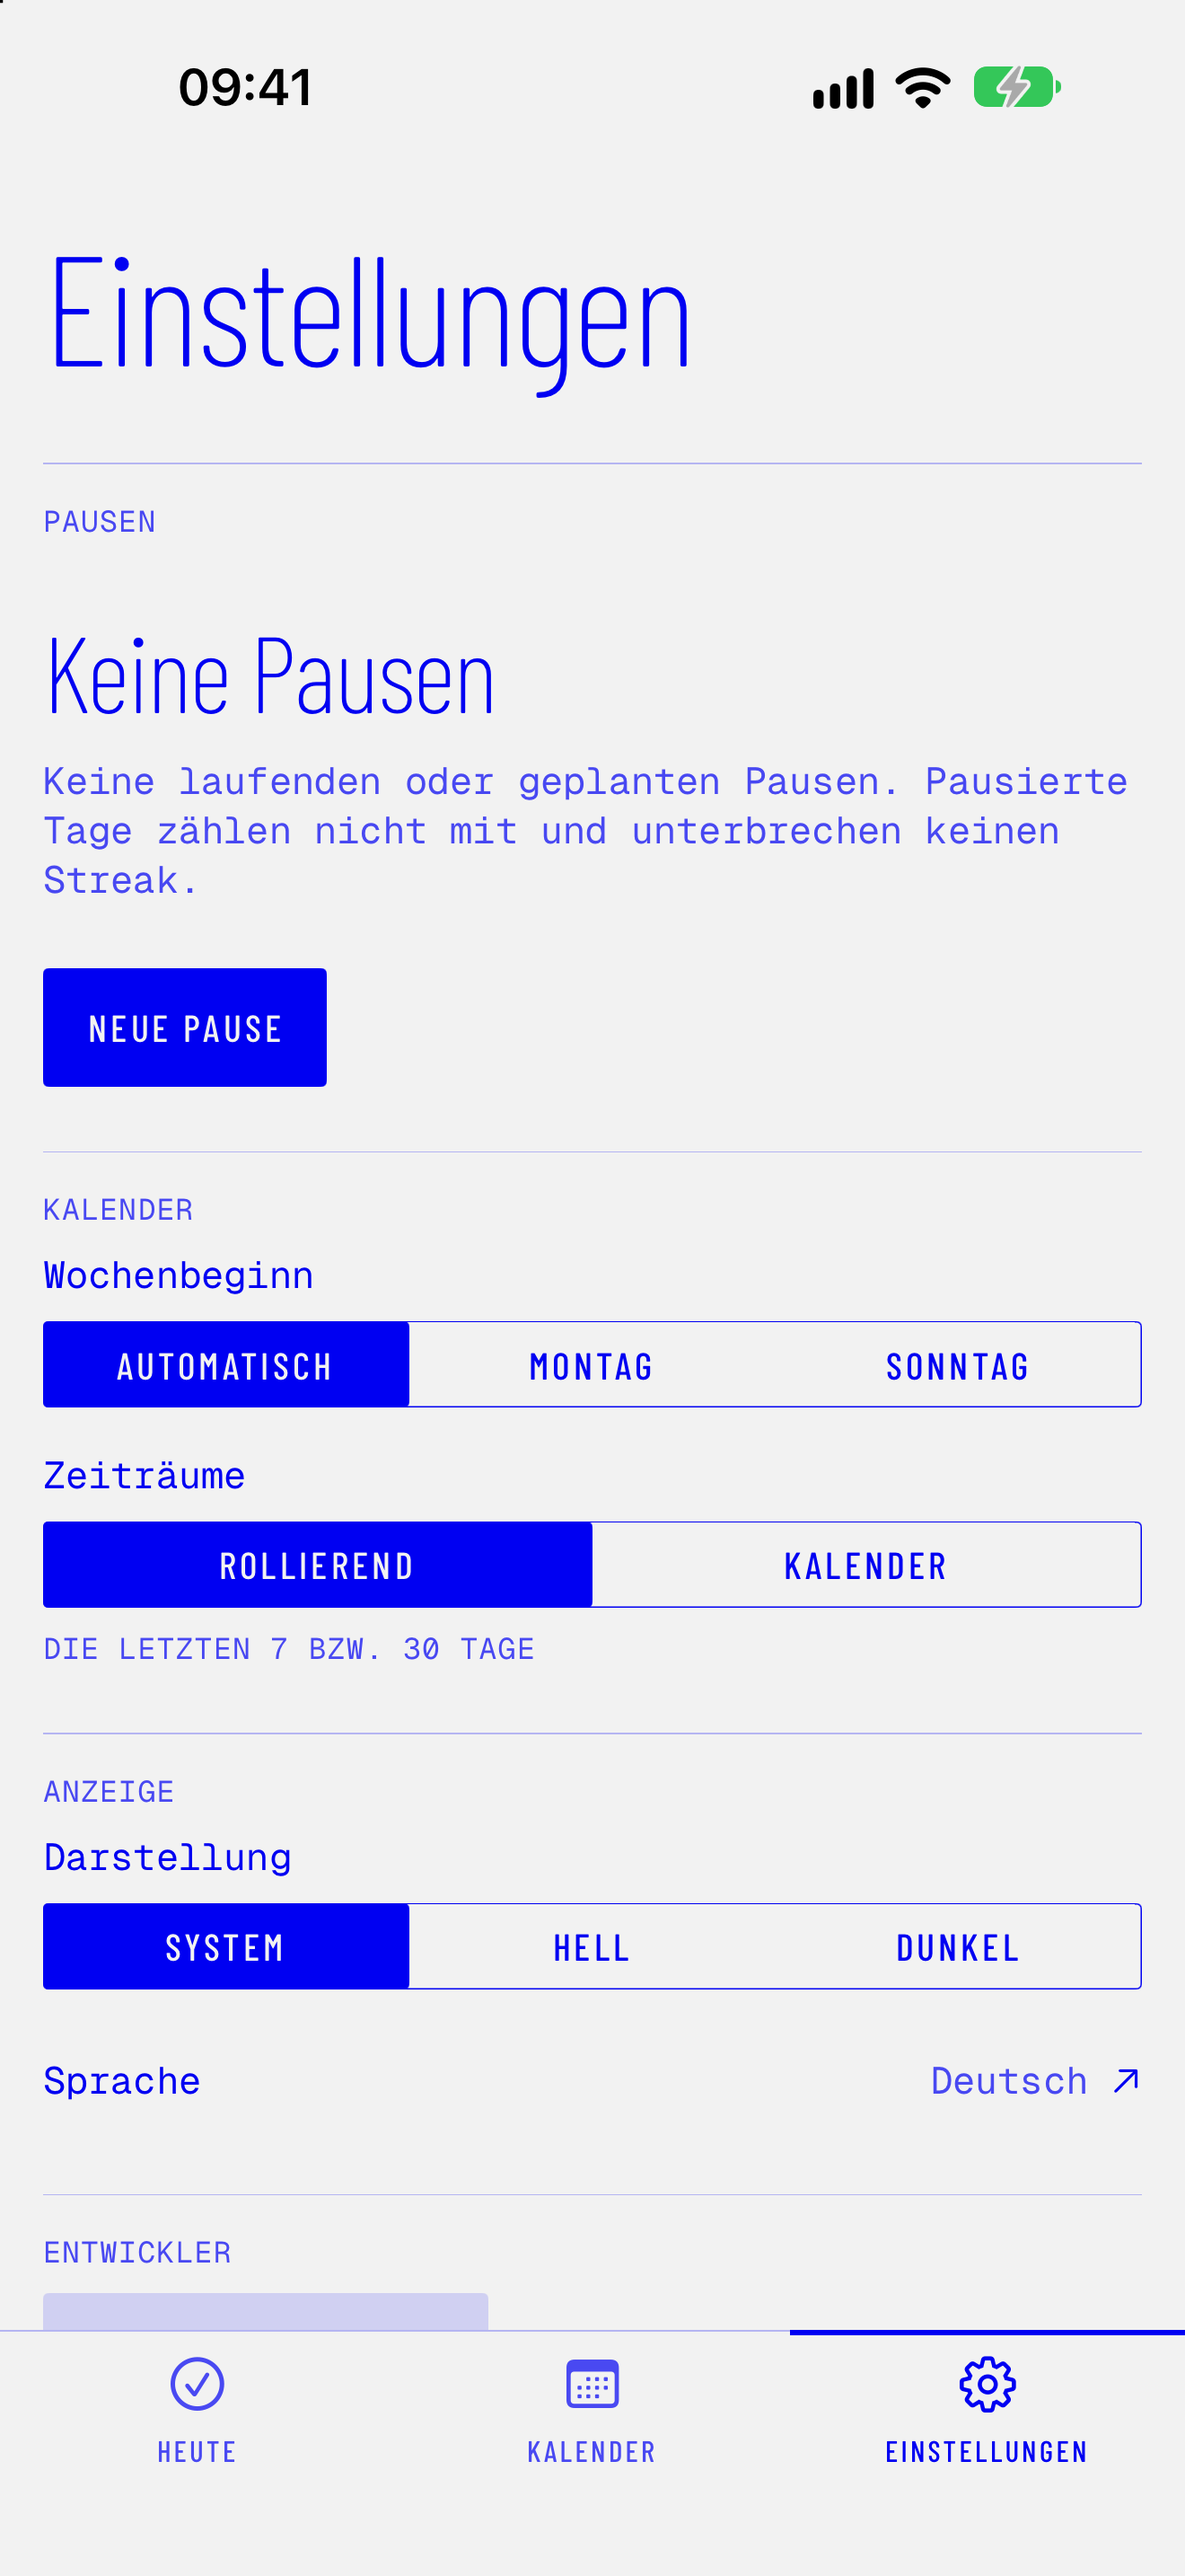
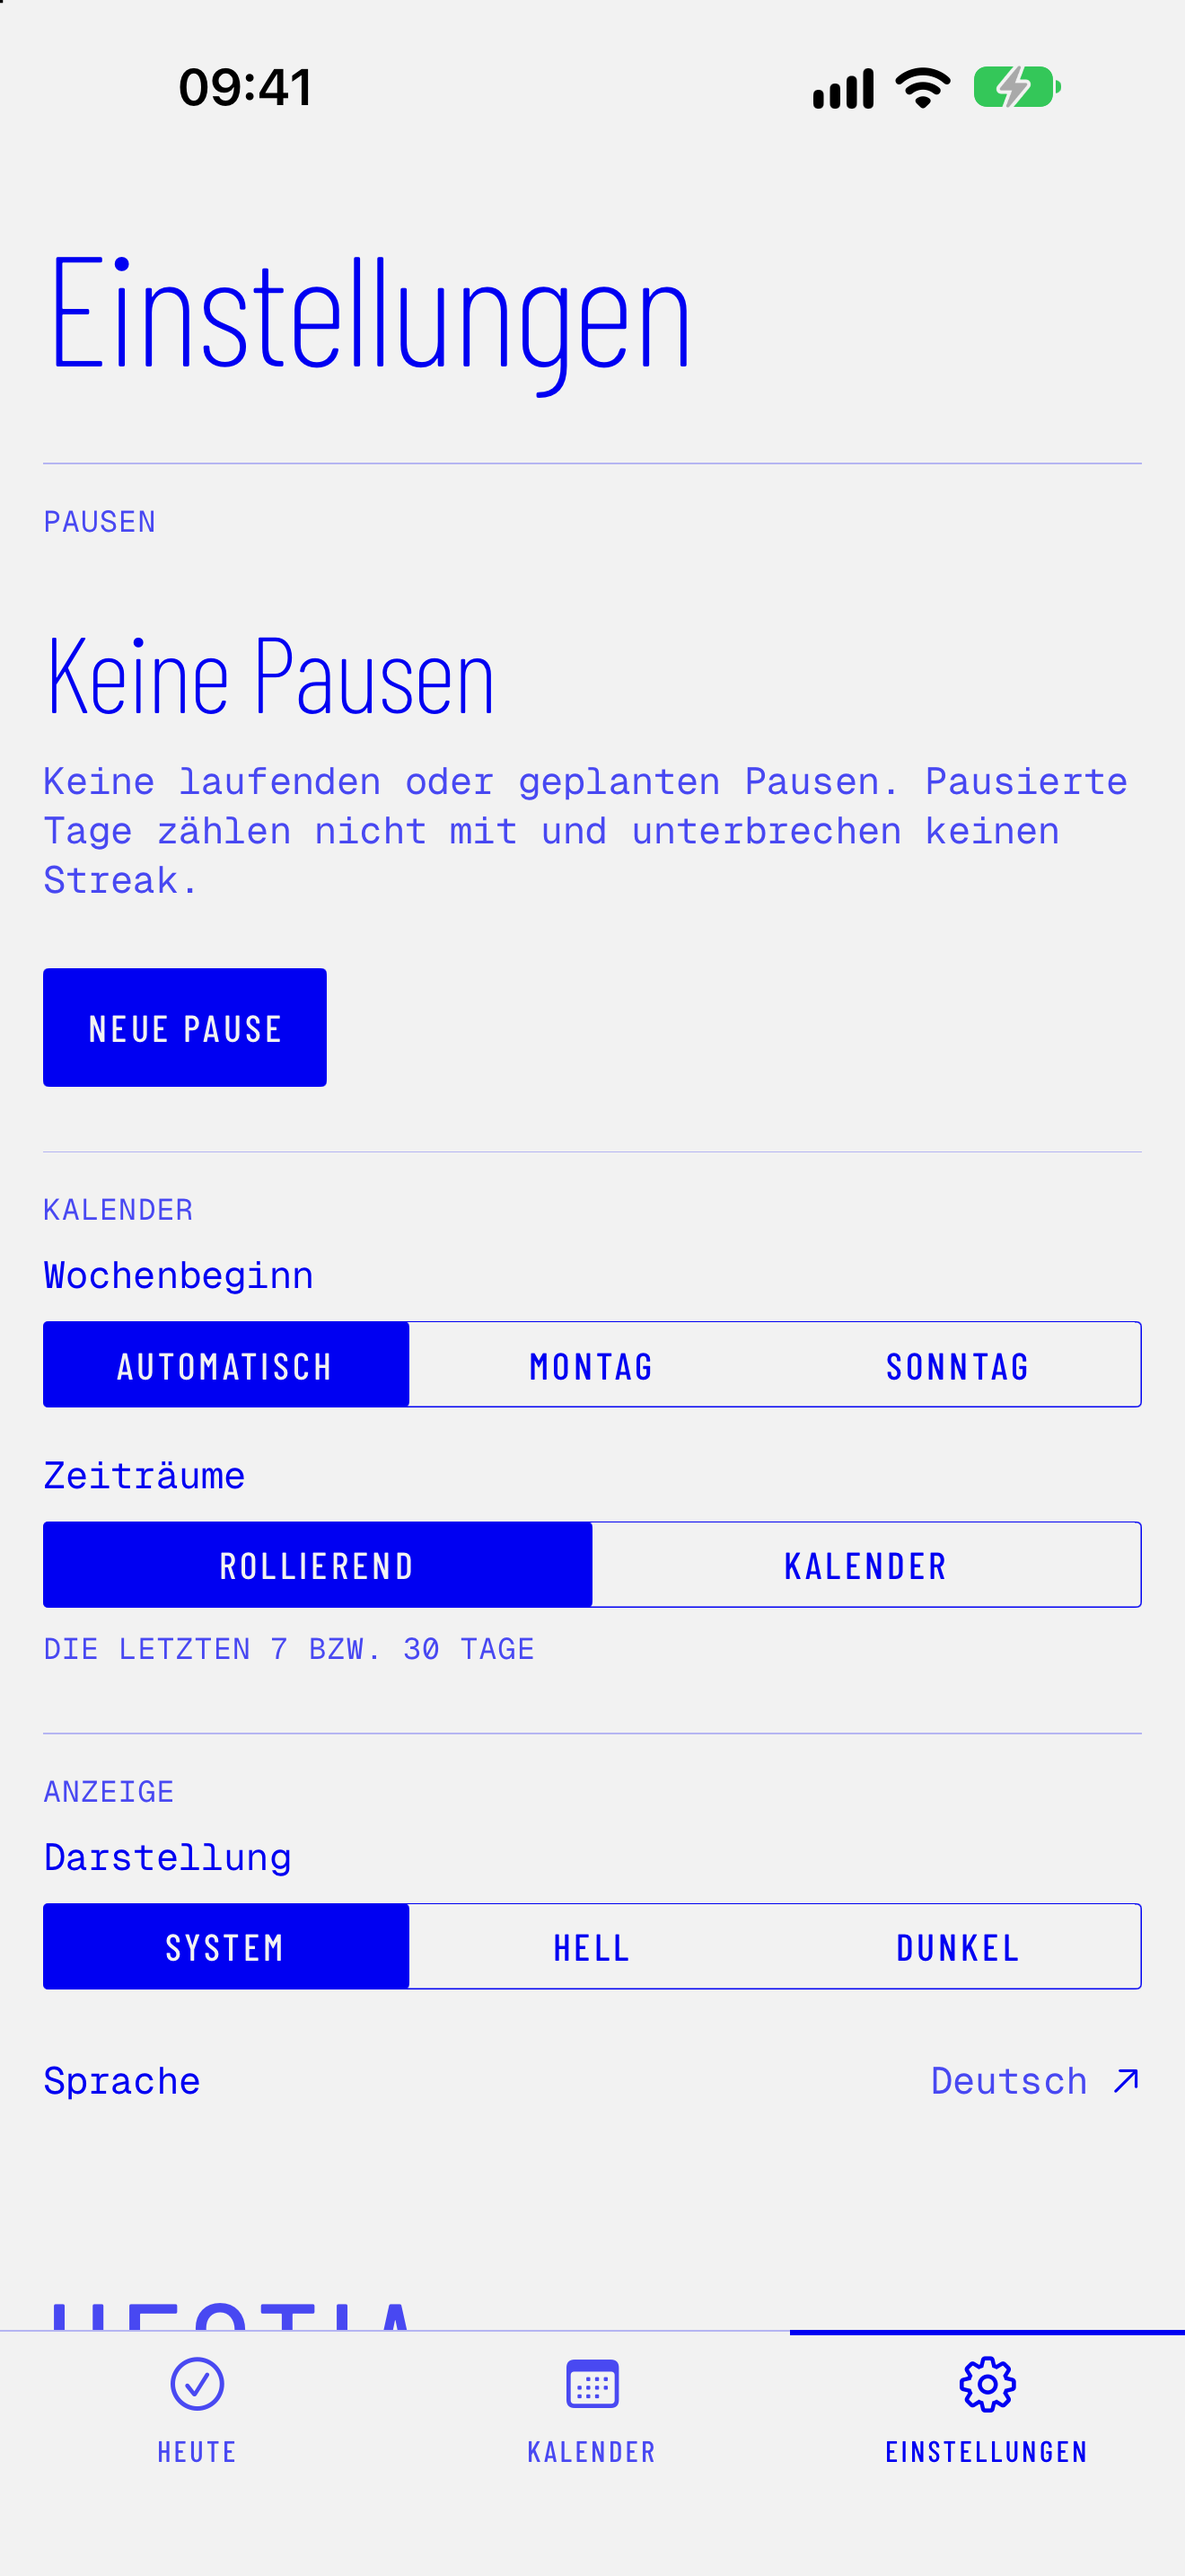
Phase 18: Einstellungen Screenshots ohne Entwicklerbereich
- Neues Debug Startargument -HestiaHideDeveloper blendet den Entwicklerbereich aus
- Einstellungen auf Deutsch und Englisch neu aufgenommen

Changed region(s): [[0.0311, 0.8689, 0.4038, 0.931]]

diff --git a/Hestia/Views/SettingsView.swift b/Hestia/Views/SettingsView.swift
@@ -13,7 +13,10 @@ struct SettingsView: View {
                     CalendarSection()
                     DisplaySection()
                     #if DEBUG && targetEnvironment(simulator)
-                    DeveloperSection()
+                    // Startargument für Store Screenshots: ohne Entwicklerbereich.
+                    if !ProcessInfo.processInfo.arguments.contains("-HestiaHideDeveloper") {
+                        DeveloperSection()
+                    }
                     #endif
                     Footer()
                 }
